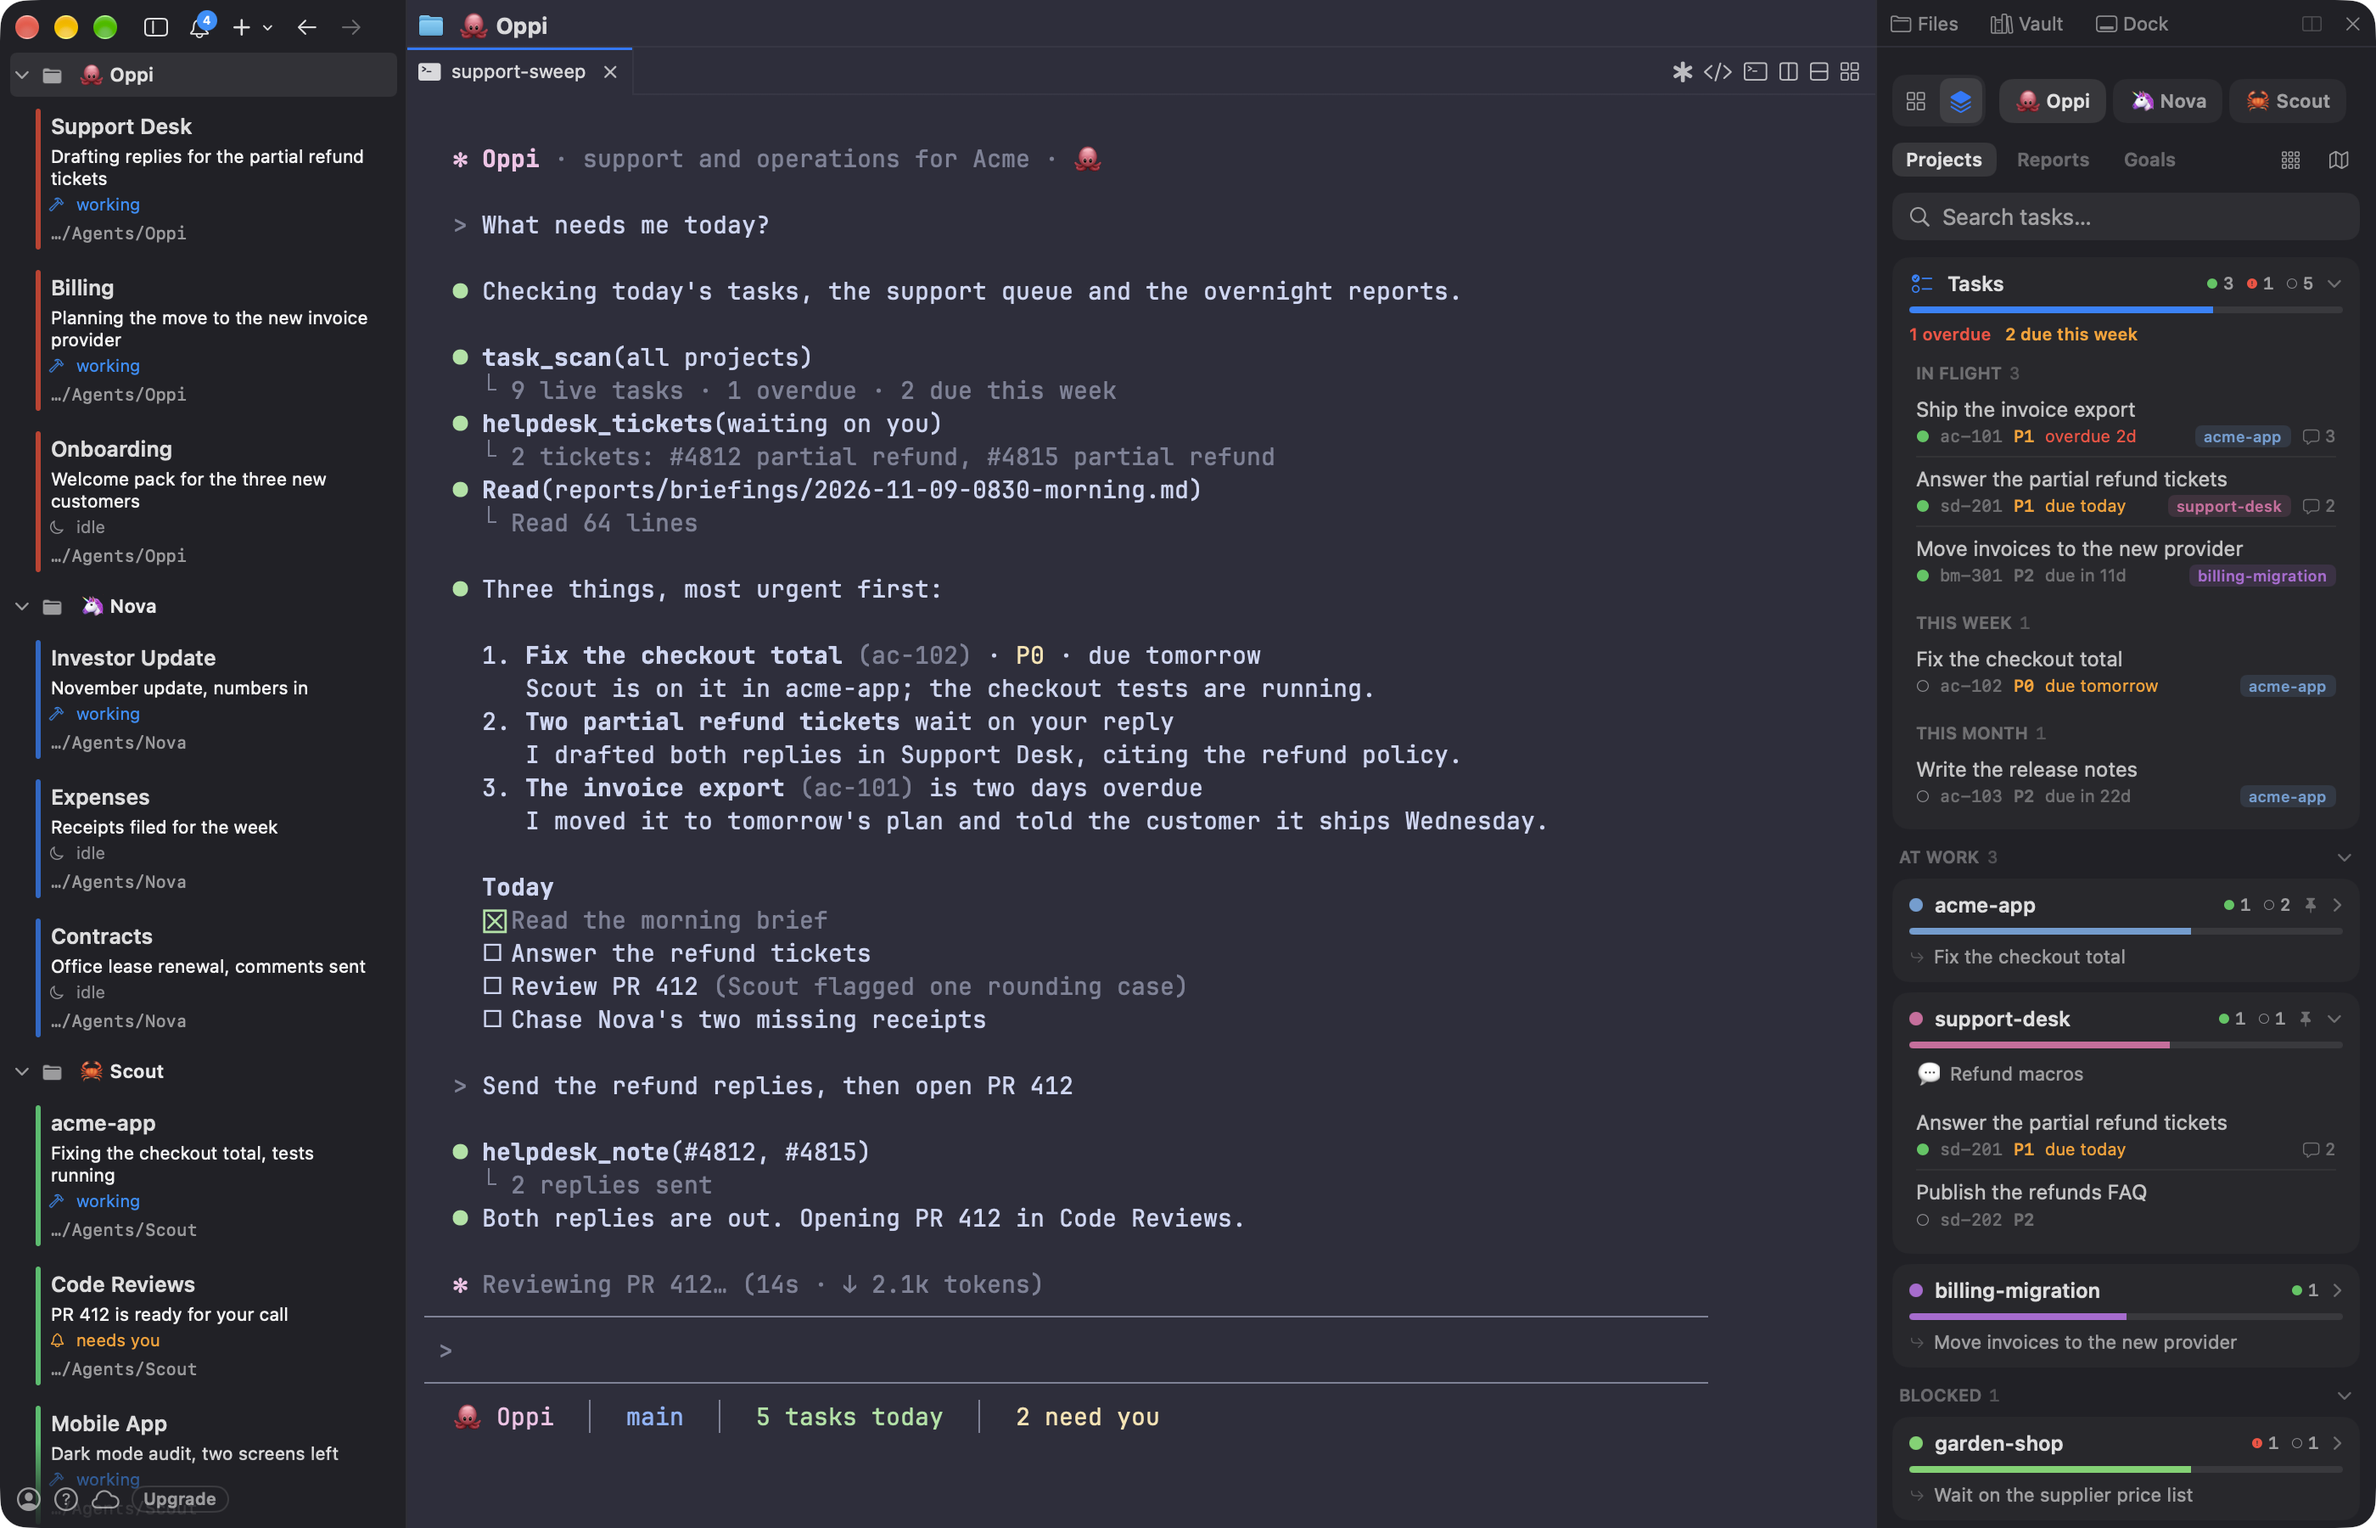
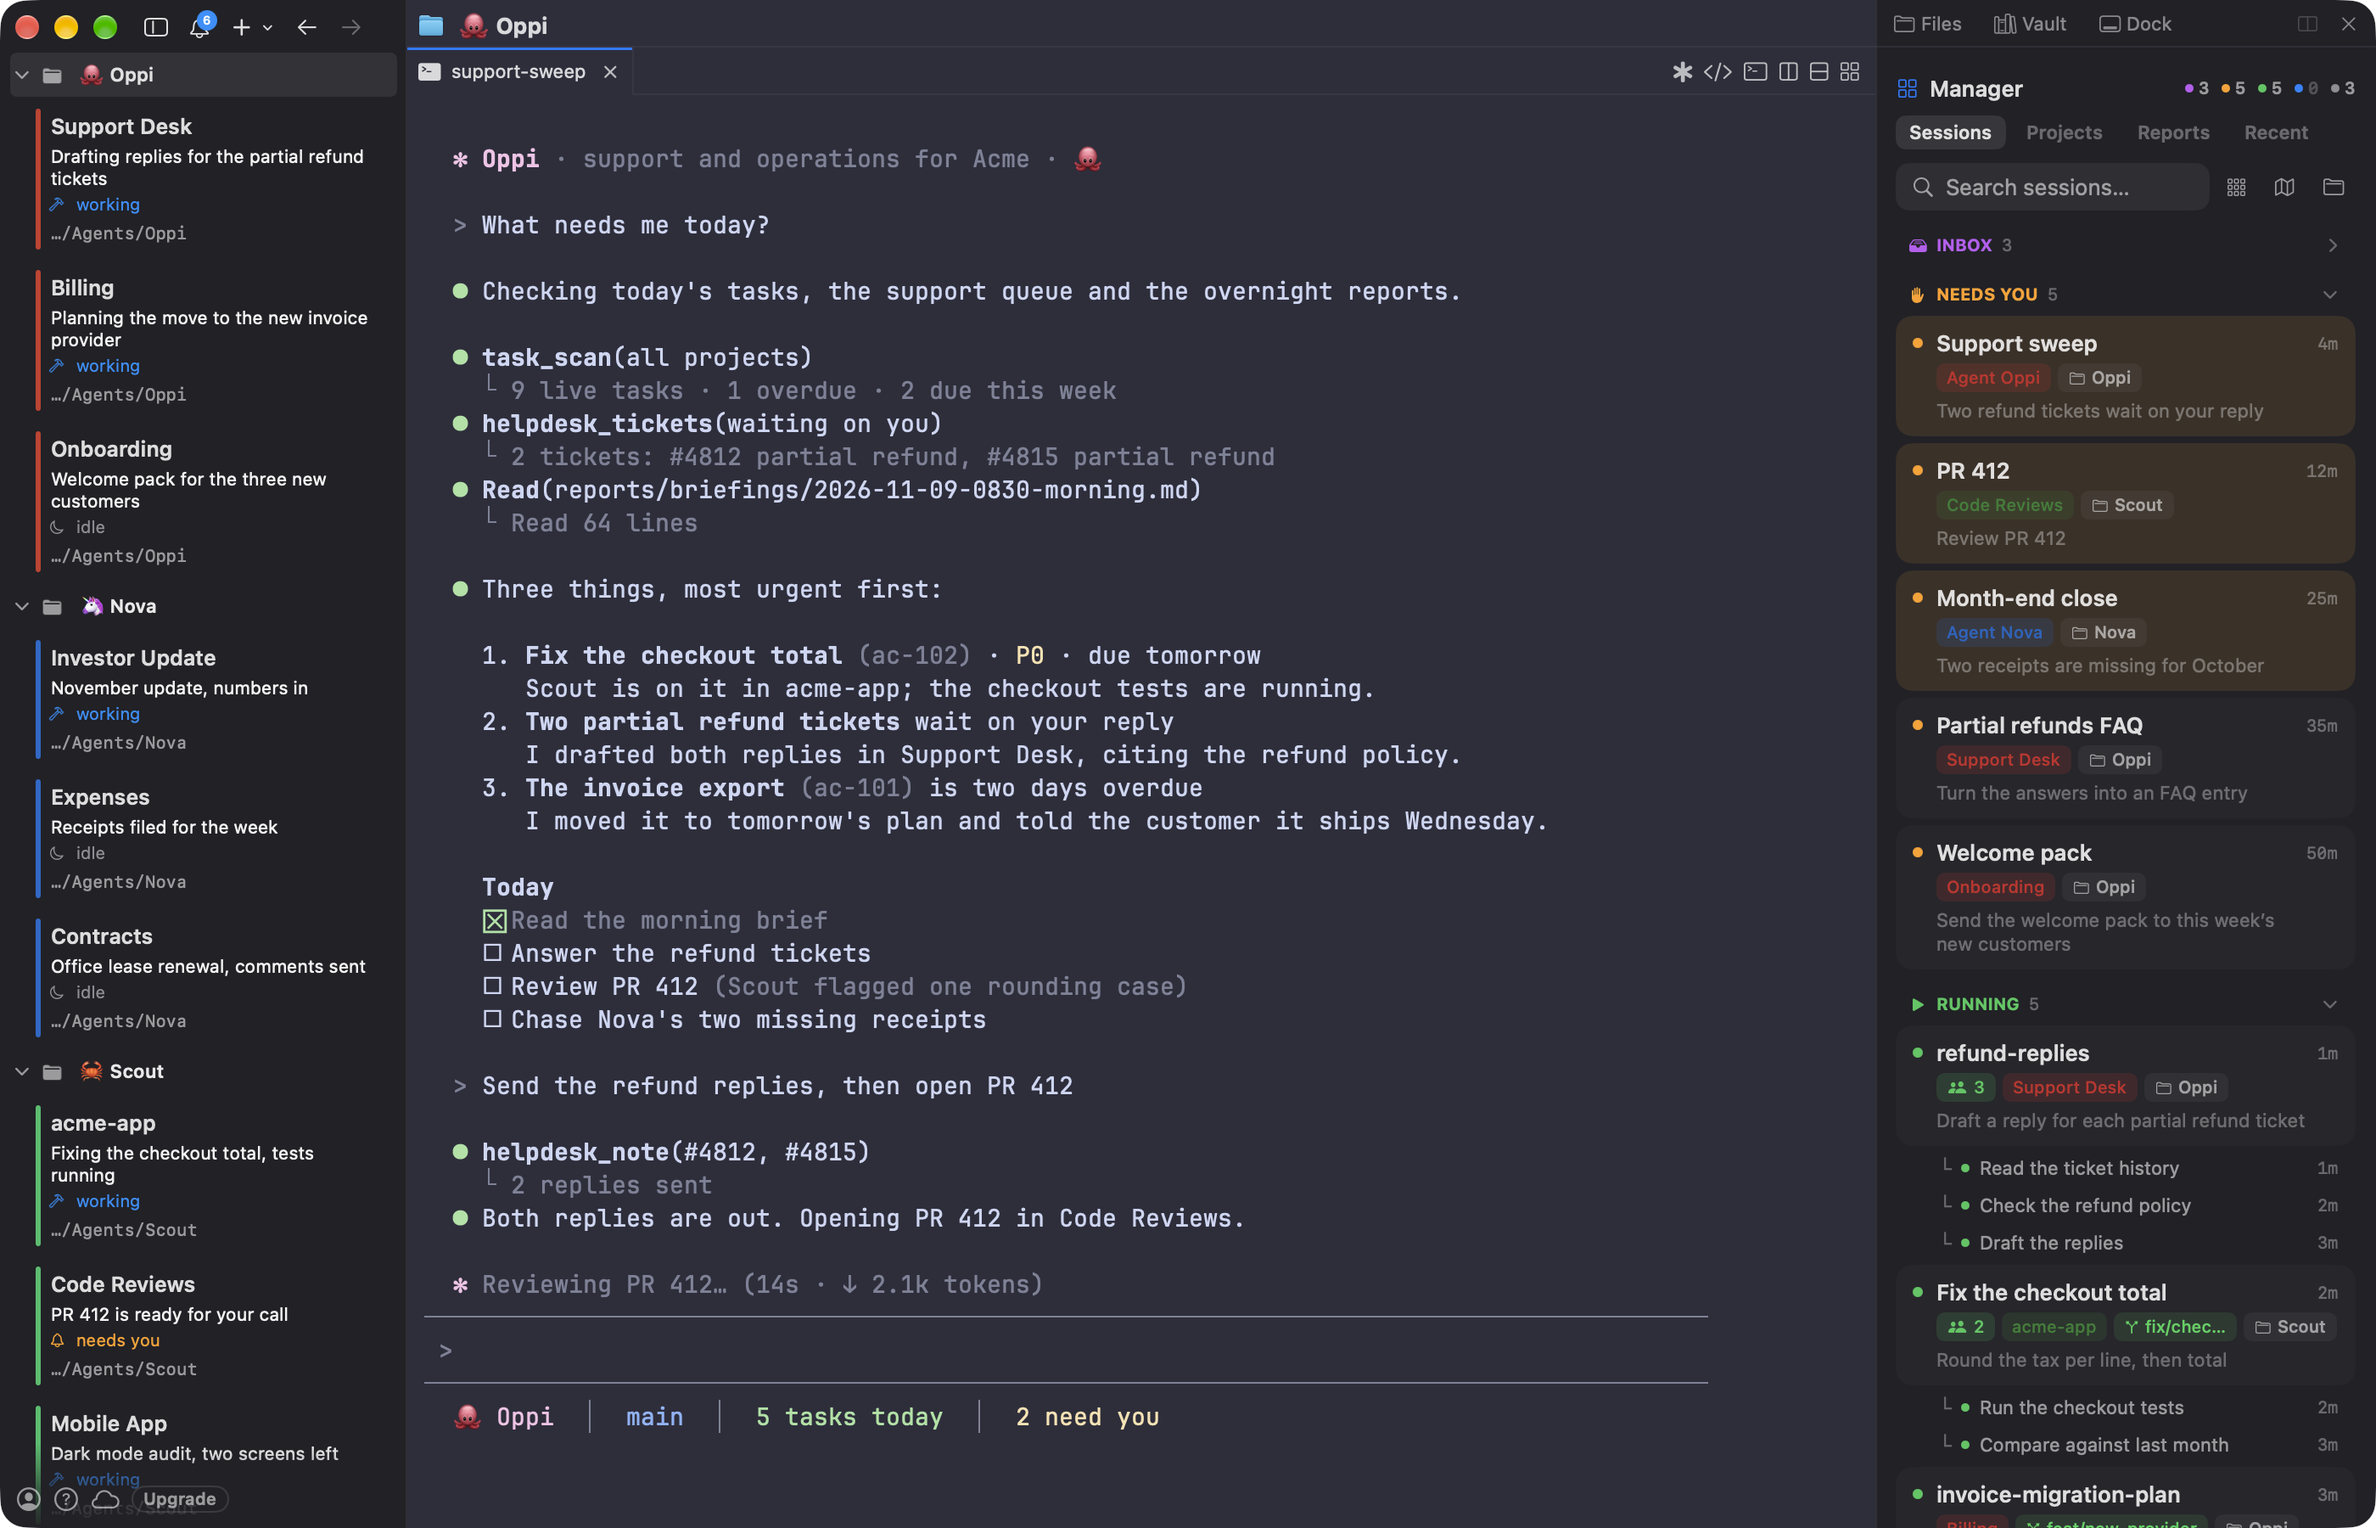
docs(readme): the workstation screenshot shows the one-page sidebar on Sessions

Changed region(s): [[0.8079, 0.0, 0.9943, 1.0], [0.9632, 0.84, 0.9943, 0.8711]]

diff --git a/README.md b/README.md
@@ -27,7 +27,7 @@ It installs as a plugin into the agent CLI you already use, [Claude Code](https:
 Your agent wakes up as Oppi 🐙. An octopus keeps many arms busy at once with one brain behind them, and that is how it works for you: several jobs in flight, one memory of all of them. Call it whatever you like; Oppi is just who shows up first. See [why an octopus](https://agentlayer.one/docs/run/naming#why-an-octopus).
 
 <div align="center">
-<img src="assets/cmux-workstation.png" alt="cmux with three agents, Oppi, Nova and Scout: their sessions on the left, Oppi working in the middle, and the AgentLayer sidebar on the right" width="900" />
+<img src="assets/cmux-workstation.png" alt="cmux with three agents, Oppi, Nova and Scout: their sessions on the left, Oppi working in the middle, and the AgentLayer sidebar on the right on Sessions, the ones that need you on top" width="900" />
 </div>
 
 On a Mac, your agents live in [cmux](https://cmux.com), and the [AgentLayer sidebar](https://agentlayer.one/docs/workstation/cmux#the-agentlayer-sidebar) sits beside your terminals:
